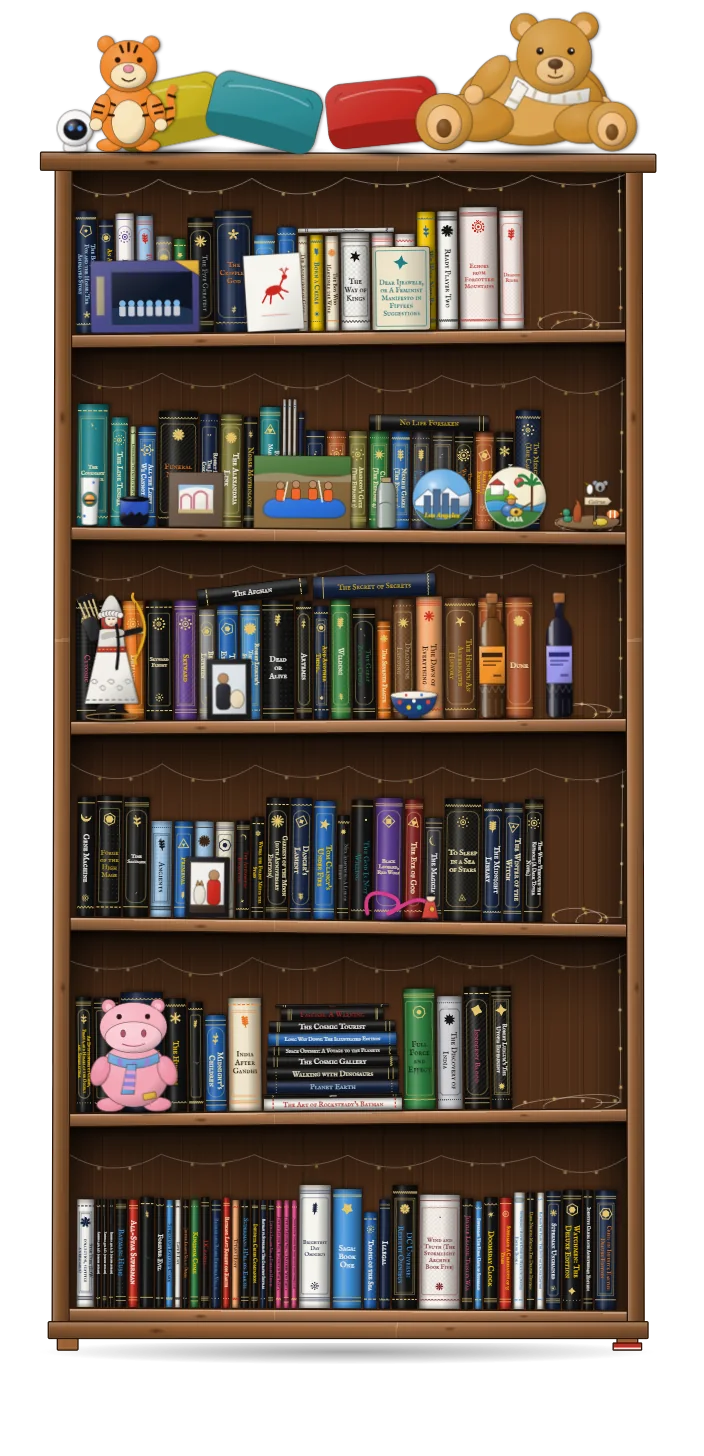
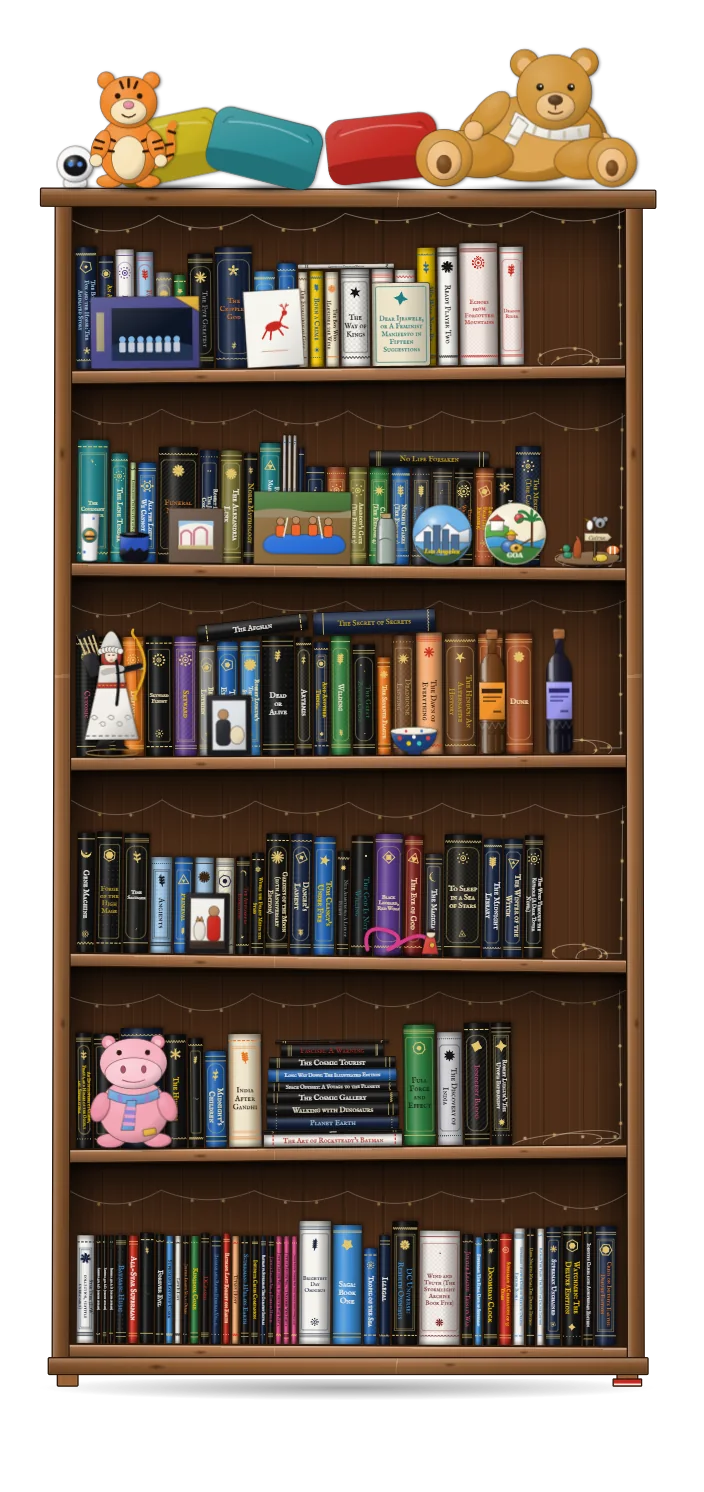
Dungeon v2.17.0
Library: remove per-book forced layout (cold open 1-2s -> ~0.25s); sparkles as the loader; picture and live bookcase grow together at identical size; no focus ring after Escape; font fetched ahead.

diff --git a/assets/js/library.js b/assets/js/library.js
@@ -7,10 +7,12 @@
   if (!root || root.dataset.ready) return;
   root.dataset.ready = '1';
   /* The page opens on pictures of the bookcases, made ahead of time by extras/shelves (npm run shelves) and already in the
-     page, so nothing is fetched or drawn to show them. Pointing at one (or touching it) fetches the data and draws that
-     bookcase out of sight, so by the time it is chosen it is ready: sparkles burst from the picture and the live bookcase
-     blooms in its place. A plain list of every book (or of one bookcase's books) lives at #books and #books-2. The same
-     code can draw the landing live (data-render="landing"): extras/shelves does that to make the pictures. */
+     page, so nothing is fetched or drawn to show them. Choosing one starts gold sparkles at once, and they keep drifting
+     up round the picture while the bookcase is fetched and drawn. When it is ready, the live bookcase is shrunk to exactly
+     the picture's size and place, and the two grow together to the open size while the picture fades into the live one: at
+     every moment they are the same size, and neither is ever bigger than the picture or the open bookcase. A plain list of
+     every book (or of one bookcase's books) lives at #books and #books-2. The same code can draw the landing live
+     (data-render="landing"): extras/shelves does that to make the pictures. */
   var TPL = root.innerHTML, landing = document.getElementById('lib-landing'), shelves = document.getElementById('lib-shelves'), DATA = null, api = null;
   var REDUCE = typeof matchMedia === 'function' && matchMedia('(prefers-reduced-motion: reduce)').matches;
   function load() {
@@ -19,45 +21,79 @@
   }
   if (root.dataset.render === 'landing') { load().then(function (d) { boot(d, true); }); return; }
   var btns = shelves ? Array.prototype.slice.call(shelves.querySelectorAll('[data-shelf]')) : [], note = document.getElementById('lib-shelves-msg');
-  var SWAP = 260, busy = false, dwell = 0, quiet = 0;
-  /* A burst of gold sparkles and a soft glow from a point on the page, in the colours of the fairy lights. Where the lengths
-     and counts can be changed: SWAP above (how long before the live bookcase takes over), the 34 here, and the durations
-     in library.css (lib-spark, lib-glow-burst, lib-bloom). */
-  function burst(x, y) {
-    if (REDUCE) return;
-    var h = document.createElement('div'), g = document.createElement('i'), COL = ['#FFD98A', '#FFC56B', '#FFE9B8', '#FFF4D6'];
+  /* Where the lengths and counts can be changed: MIN (the least time, in ms, before the bookcase takes over, so the sparkles
+     are seen), MORPH_MS (how long the grow-and-fade takes), the counts in sparkle(), and the durations in library.css
+     (lib-spark, lib-glow-burst, lib-bloom). */
+  var MIN = 180, MORPH_MS = 520, busy = false, MORPH = null;
+  var SPARK_COL = ['#FFD98A', '#FFC56B', '#FFE9B8', '#FFF4D6'];
+  /* Gold sparkles and a soft glow in the colours of the fairy lights. They start with a burst at (x, y) and, until stop() is
+     called, keep drifting up from inside box; what is already in the air then finishes by itself. */
+  function sparkle(x, y, box) {
+    if (REDUCE) return { stop: function () {} };
+    var h = document.createElement('div'), g = document.createElement('i'), over = false, tick = 0, cap = 0;
     h.className = 'lib-sparks'; h.setAttribute('aria-hidden', 'true'); g.className = 'lib-glow'; g.style.left = x + 'px'; g.style.top = y + 'px'; h.appendChild(g);
-    for (var k = 0; k < 34; k++) {
-      var a = Math.random() * Math.PI * 2, r = 80 + Math.random() * 240, s = 8 + Math.random() * 18, e = document.createElement('i');
-      e.className = 'lib-spark';
-      e.style.cssText = 'left:' + x + 'px;top:' + y + 'px;--s:' + s.toFixed(1) + 'px;--c:' + COL[k % 4] + ';--dx:' + (Math.cos(a) * r).toFixed(0) + 'px;--dy:' + (Math.sin(a) * r - 50).toFixed(0) + 'px;--r:' + (Math.random() * 180 - 90).toFixed(0) + 'deg;--d:' + (850 + Math.random() * 550).toFixed(0) + 'ms;--w:' + (Math.random() * 200).toFixed(0) + 'ms';
-      h.appendChild(e);
+    function add(n, px, py, reach) {
+      for (var k = 0; k < n; k++) {
+        var a = Math.random() * Math.PI * 2, r = (80 + Math.random() * 240) * reach, s = 8 + Math.random() * 18, e = document.createElement('i');
+        e.className = 'lib-spark';
+        e.style.cssText = 'left:' + px + 'px;top:' + py + 'px;--s:' + s.toFixed(1) + 'px;--c:' + SPARK_COL[k % 4] + ';--dx:' + (Math.cos(a) * r).toFixed(0) + 'px;--dy:' + (Math.sin(a) * r - 50 * reach).toFixed(0) + 'px;--r:' + (Math.random() * 180 - 90).toFixed(0) + 'deg;--d:' + (850 + Math.random() * 550).toFixed(0) + 'ms;--w:' + (Math.random() * 200).toFixed(0) + 'ms';
+        e.addEventListener('animationend', function () { if (this.parentNode) this.parentNode.removeChild(this); });
+        h.appendChild(e);
+      }
     }
-    document.body.appendChild(h); setTimeout(function () { if (h.parentNode) h.parentNode.removeChild(h); }, 1900);
+    function stop() { if (over) return; over = true; clearInterval(tick); clearTimeout(cap); setTimeout(function () { if (h.parentNode) h.parentNode.removeChild(h); }, 2000); }
+    add(34, x, y, 1);
+    tick = setInterval(function () { add(9, box.left + Math.random() * box.width, box.top + box.height * (0.25 + Math.random() * 0.6), 0.6); }, 260);
+    cap = setTimeout(stop, 8000);
+    document.body.appendChild(h);
+    return { stop: stop };
   }
-  /* Draw a bookcase out of sight, ready to be shown. Drawing holds the page for a moment, so it is only done for the one
-     being pointed at, never for all three. */
-  function warm(i) {
-    /* Just after coming back to the pictures, focus returns to one and must not start a draw; if the pointer is still on a
-       picture when that window ends, draw then */
-    if (Date.now() < quiet) { dwell = setTimeout(function () { warm(i); }, quiet - Date.now() + 30); return; }
-    load().then(function (d) { if (!api) api = boot(d, false); if (!busy && !LV.on) api.prepare(i); }).catch(function () {});
+  /* Back on the pictures (or the list's way out): focus goes to the page area, not to a picture, so no outline appears round
+     one; tabbing to a picture still shows it. */
+  function focusLanding() { if (!landing) return; landing.setAttribute('tabindex', '-1'); try { landing.focus({ preventScroll: true }); } catch (e) {} }
+  /* One burst and no more, from a point (a book chosen in the list) */
+  function burst(x, y) { sparkle(x, y, { left: x, top: y, width: 0, height: 0 }).stop(); }
+  /* The picture and the live bookcase, the same size and place at every moment. pic is the picture shown, P its rectangle on
+     the page, px and py the transparent margin round the artwork as a fraction of its width and height; sizer is the live
+     bookcase, already in its place. The live bookcase is shrunk to where the picture's artwork is and grown back, and a copy
+     of the picture is grown with it, from where it is to the live bookcase's rectangle. */
+  function playMorph(pic, P, px, py, sizer) {
+    if (MORPH) MORPH.cancel();
+    var Sx = P.left + P.width * px, Sy = P.top + P.height * py, Sw = P.width * (1 - 2 * px), T = sizer.getBoundingClientRect();
+    if (!T.width || !Sw) return false;
+    var k = Sw / T.width, kk = T.width / Sw, gx = T.left - P.left - kk * (Sx - P.left), gy = T.top - P.top - kk * (Sy - P.top);
+    var ghost = new Image(); ghost.alt = ''; ghost.className = 'lib-ghost'; ghost.src = pic.currentSrc || pic.src;
+    ghost.style.cssText = 'left:' + P.left + 'px;top:' + P.top + 'px;width:' + P.width + 'px;height:' + P.height + 'px';
+    document.body.appendChild(ghost);
+    sizer.style.transformOrigin = '0 0';
+    var o = { duration: MORPH_MS, easing: 'cubic-bezier(0.45, 0, 0.2, 1)', fill: 'both' };
+    var a = [
+      ghost.animate([{ transform: 'translate(0px, 0px) scale(1)', opacity: 1 }, { opacity: 1, offset: 0.35 }, { transform: 'translate(' + gx + 'px, ' + gy + 'px) scale(' + kk + ')', opacity: 0 }], o),
+      sizer.animate([{ transform: 'translate(' + (Sx - T.left) + 'px, ' + (Sy - T.top) + 'px) scale(' + k + ')' }, { transform: 'translate(0px, 0px) scale(1)' }], o),
+      root.animate([{ opacity: 0 }, { opacity: 1, offset: 0.65 }, { opacity: 1 }], o)
+    ];
+    function end() { a.forEach(function (x) { try { x.cancel(); } catch (e) {} }); if (ghost.parentNode) ghost.parentNode.removeChild(ghost); sizer.style.transformOrigin = ''; if (MORPH === m) MORPH = null; }
+    var m = MORPH = { cancel: end };
+    a[1].onfinish = end;
+    return true;
   }
   function go(i, now) {
     var b = btns[i]; if (!b || busy) return;
     busy = true; if (note) note.hidden = true;
+    var pic = null, sp = null, t0 = Date.now(), ran = false;
     if (!now) {
       b.classList.add('lib-opening');
-      if (!REDUCE) { var rc = b.getBoundingClientRect(); b.classList.add('lib-burst'); burst(rc.left + rc.width / 2, rc.top + rc.height / 2); }
+      [].forEach.call(b.querySelectorAll('.lib-shelf-img'), function (x) { if (!pic && getComputedStyle(x).display !== 'none') pic = x; });
+      var rc = (pic || b).getBoundingClientRect();
+      sp = sparkle(rc.left + rc.width / 2, rc.top + rc.height / 2, rc);
     }
-    var t0 = Date.now(), ran = false;
-    function done() { b.classList.remove('lib-opening', 'lib-burst'); busy = false; }
+    function done() { b.classList.remove('lib-opening'); busy = false; if (sp) sp.stop(); }
     function fail(e) {
       if (window.console) console.error(e);
       done();
       if (note) { note.textContent = 'The shelves could not be loaded. Tap a bookcase to try again.'; note.hidden = false; }
     }
-    /* Let the browser start the burst before any drawing begins, since drawing holds the page for a moment */
+    /* Two frames are shown before any drawing begins, so the sparkles are already moving when the page is held for the draw */
     function run() {
       if (ran) return; ran = true;
       load().then(function (d) {
@@ -66,22 +102,22 @@
         setTimeout(function () {
           try {
             btns.forEach(function (x) { x.classList.remove('lib-opened'); }); b.classList.add('lib-opened');
-            api.open(i);
+            /* measured now, while the pictures are still on the page, in case it was scrolled meanwhile */
+            api.open(i, pic && !REDUCE ? { pic: pic, rect: pic.getBoundingClientRect(), px: +b.dataset.px || 0, py: +b.dataset.py || 0 } : null);
           } catch (e) { return fail(e); }
           done();
-        }, now ? 0 : Math.max(0, SWAP - (Date.now() - t0)));
+        }, now ? 0 : Math.max(0, MIN - (Date.now() - t0)));
       }).catch(fail);
     }
-    if (now) run(); else { requestAnimationFrame(function () { setTimeout(run, 0); }); setTimeout(run, 120); }
+    if (now) run(); else { requestAnimationFrame(function () { requestAnimationFrame(function () { setTimeout(run, 0); }); }); setTimeout(run, 150); }
   }
   btns.forEach(function (b, i) {
     b.addEventListener('click', function () { go(i); });
-    /* The data is fetched as soon as a bookcase is pointed at, and the bookcase is drawn a moment later if the pointer stays */
-    b.addEventListener('pointerenter', function (e) { load().catch(function () {}); if (e.pointerType !== 'touch') dwell = setTimeout(function () { warm(i); }, 120); });
-    b.addEventListener('pointerleave', function () { clearTimeout(dwell); });
-    ['focus', 'touchstart'].forEach(function (t) { b.addEventListener(t, function () { warm(i); }, { passive: true }); });
+    /* The data and the lettering font are fetched as soon as a bookcase is pointed at or touched, so choosing one only waits for the drawing */
+    ['pointerenter', 'focus', 'touchstart'].forEach(function (t) { b.addEventListener(t, ahead, { once: true, passive: true }); });
   });
-  (window.requestIdleCallback || function (f) { setTimeout(f, 2000); })(function () { load().catch(function () {}); });
+  function ahead() { load().catch(function () {}); try { if (document.fonts && document.fonts.load) document.fonts.load("12px 'IM Fell English SC'"); } catch (e) {} }
+  (window.requestIdleCallback || function (f) { setTimeout(f, 2000); })(ahead);
 
   /* The list of books: one plain row each, drawn a screenful at a time. #books lists every book, #books-2 only Shelf 2's.
      Choosing a row opens that book's bookcase with the book selected. */
@@ -164,7 +200,7 @@
     try { history.replaceState(null, '', location.pathname + location.search); } catch (e) {}
     if (from >= 0) { openAt(from, null, null, false); return; }
     if (landing) landing.hidden = false;
-    var a = $('lib-allbooks'); if (a) { quiet = Date.now() + 600; a.focus({ preventScroll: true }); }
+    focusLanding();
   }
   function reshow() { LV.live = false; api.hide(); if (landing) landing.hidden = true; listEl.hidden = false; LV.on = true; window.scrollTo(0, LV.y || 0); }
   function openAt(ci, gi, ev, fromList) {
@@ -212,29 +248,32 @@
   function boot(d, render){
     const books=d.books||d,cases=d.cases&&d.cases.length?d.cases:[{name:'Shelf 1',n:6},{name:'Shelf 2',n:6}],curios=d.curios||[],CS=[];
     {let a=0;cases.forEach(c=>{CS.push(a);a+=c.n})}
-    let AC=null,STD=shelves&&+shelves.dataset.std||0;
+    let AC=null,STD=shelves&&+shelves.dataset.std||0,FIXW0=shelves&&+shelves.dataset.fixw||0;
     function fresh(over){if(AC)AC.abort();AC=new AbortController();document.documentElement.classList.remove('lib-zoomed');root.innerHTML=TPL;root.classList.toggle('lib-over',over);root.hidden=false}
     let warmed=-1;
     function clear(){if(AC)AC.abort();AC=null;warmed=-1;root.innerHTML='';root.hidden=true;root.classList.remove('lib-warm','lib-fadein','lib-bloom');root.style.width=root.style.left='';document.documentElement.classList.remove('lib-zoomed')}
     function overview(){
       /* Back to the pictures: the live bookcase is thrown away, so this is instant */
-      if(!render){clear();if(landing)landing.hidden=false;const b=shelves&&shelves.querySelector('.lib-opened');if(b){quiet=Date.now()+600;b.focus({preventScroll:true})}return}
-      fresh(true);start(books,d.covers,curios,cases,{landing:true,signal:AC.signal,pick:()=>{},std:w=>{STD=w;window.__libStd=w},ready:()=>{window.__libReady=true}})}
+      if(!render){clear();if(landing)landing.hidden=false;focusLanding();return}
+      fresh(true);start(books,d.covers,curios,cases,{landing:true,signal:AC.signal,pick:()=>{},std:w=>{STD=w;window.__libStd=w},fixw:w=>{window.__libFixW=w},ready:()=>{window.__libReady=true}})}
     function draw(ci,sel,opt){const c=cases[ci];
       const bs=books.map((b,gi)=>Object.assign({},b,{_g:gi})).filter(b=>b.s>=CS[ci]&&b.s<CS[ci]+c.n).map(b=>Object.assign(b,{s:b.s-CS[ci]})),
         cu=curios.filter(q=>q.s===-1-ci||(q.s>=CS[ci]&&q.s<CS[ci]+c.n)).map(q=>Object.assign({},q,{s:q.s<0?-1:q.s-CS[ci]}));
-      start(bs,d.covers,cu,[c],{ci,stdW:STD,signal:AC.signal,close:opt&&opt.back||overview,backLabel:opt&&opt.label,sel,list:()=>listFromShelf(ci)})}
+      start(bs,d.covers,cu,[c],{ci,stdW:STD,fixW:FIXW0,signal:AC.signal,close:opt&&opt.back||overview,backLabel:opt&&opt.label,sel,list:()=>listFromShelf(ci)})}
     /* Draw a bookcase out of sight, at the size it will have when shown: the page's column, not in the page's flow */
     function prepare(ci,sel,opt){if(warmed===ci&&sel==null&&!opt)return;if(warmed>=0||AC)clear();
       const p=root.parentNode,cs=getComputedStyle(p),r=p.getBoundingClientRect();
       root.classList.add('lib-warm');root.style.width=(p.clientWidth-parseFloat(cs.paddingLeft)-parseFloat(cs.paddingRight))+'px';root.style.left=(r.left+parseFloat(cs.paddingLeft)+p.clientLeft)+'px';
       fresh(false);draw(ci,sel,opt);warmed=ci}
-    function openShelf(ci){
+    function openShelf(ci,mo){
       if(warmed!==ci)prepare(ci);
-      /* Bring the drawn bookcase into the page, in place of the pictures: it blooms outward from its middle */
+      /* Bring the drawn bookcase into the page, in place of the pictures: grown from the picture's own size and place when a
+         picture was chosen, otherwise blooming outward from its middle */
       warmed=-1;root.classList.remove('lib-warm');root.style.width=root.style.left='';if(landing)landing.hidden=true;
-      const k=REDUCE?'lib-fadein':'lib-bloom';root.classList.add(k);setTimeout(()=>root.classList.remove(k),620);
-      if(root.scrollIntoView&&root.getBoundingClientRect().top<0)root.scrollIntoView({block:'start'})}
+      if(root.scrollIntoView&&root.getBoundingClientRect().top<0)root.scrollIntoView({block:'start'});
+      const sz=root.querySelector('#lib-sizer');
+      if(mo&&sz&&root.animate&&playMorph(mo.pic,mo.rect,mo.px,mo.py,sz))return;
+      const k=REDUCE?'lib-fadein':'lib-bloom';root.classList.add(k);setTimeout(()=>root.classList.remove(k),620)}
     if(render)overview();
     return{open:openShelf,prepare,home:overview,hide:clear}}
   function start(DATA, COVERS, CURIOS, CASES0, CTX) {
@@ -622,7 +661,7 @@
       caseEl.classList.toggle('lb-manual',mode==='manual');document.getElementById('lib-tools').hidden=mode!=='manual';if(mode==='manual')shareLinks();
       caseEl.querySelectorAll('.lb-fr').forEach(p=>p.remove());
       const tk=!!m.real&&tucked,hasL=c=>!!CASES[c].layers;
-      const L=r.sh.map(s=>layoutShelf(s,!!m.real,tk));if(m.real)FIXW=Math.max(420,...L.filter((l,q)=>!hasL(caseOf(q))).map(l=>l.width));
+      const L=r.sh.map(s=>layoutShelf(s,!!m.real,tk));if(m.real){FIXW=Math.max(420,CTX.fixW||0,...L.filter((l,q)=>!hasL(caseOf(q))).map(l=>l.width));if(CTX.fixw)CTX.fixw(FIXW)}
       geos=[];G={};sortSel.value=m.pat||m.own?'':mode;patSel.value=m.pat?mode:'';menus.forEach(x=>x.update());
       for(let c=0;c<CASES.length;c++){const n=CASES[c].n,st=!!CASES[c].straight,bx=boxes[c],LM=24,cx=LM,ty=STUFF,bot=ty+TB+n*ROW-30,D=DEPTH,
           colW=Math.max(m.real&&hasL(c)?420:FIXW,...L.slice(CS[c],CS[c]+n).map(l=>l.width)),CW=colW+2*SIDE,BW=LM+CW+40;
@@ -635,7 +674,7 @@
         for(let rw=0;rw<n;rw++){const si=CS[c]+rw,th=TILT[si]*RAD,ox=cx+SIDE,by=ty+TB+rw*ROW+SH+JIT[si]-(colW/2)*Math.sin(th),geo={ox,by,th,colW,c},
             off=m.centre?(colW-L[si].width)/2:0;geos[si]=geo;G[si]={ox,by,th,colW,front:0,c};
           L[si].place.forEach(([e,x,y,ang,drag],i)=>{e.geo=geo;e.drag=!!drag;e.lx=x+off;e.ly2=0;e.ly_=y+e.dh-FD;e.ang=ang||0;
-            const pln=tk&&e.ly?bx['_books'+e.ly]:bx._books;if(e.el.parentNode!==pln){pln.appendChild(e.el);void e.el.offsetWidth}
+            const pln=tk&&e.ly?bx['_books'+e.ly]:bx._books;if(e.el.parentNode!==pln){pln.appendChild(e.el)}
             if(drag){e.lim=[PAD,colW-e.dw-PAD];e.lx=Math.max(e.lim[0],Math.min(e.lim[1],e.lx+(dxs[e.i]||0)))}
             e.el.style.zIndex=drag?400:10+i;put(e)});
           fairy(si,ox,by,colW,off+PAD,off+L[si].width-PAD);
@@ -797,6 +836,9 @@
     if(CTX.sel!=null){const e=books.find(b=>b._g===CTX.sel);if(e)select(e)}
     if(location.hash.indexOf('#'+PFX+'.')===0){const sh=dec(location.hash.slice(1));if(sh){manual=normalise(sh);render('manual')}else msg.textContent='That link does not match the books on the shelves now, so the shelves are shown as they really are.'}
     const done=()=>{if(CTX.ready)setTimeout(CTX.ready,50)};
-    if(document.fonts&&document.fonts.load)document.fonts.load("12px 'IM Fell English SC'").then(()=>{books.forEach(b=>b.f=null);render(current)}).catch(()=>{}).then(done);else done();
+    /* The lettering is measured with its own font. If that font is already loaded (it is fetched ahead of time) the first draw is
+       right; otherwise draw again once it arrives. */
+    const fontReady=!!(document.fonts&&document.fonts.check&&document.fonts.check("12px 'IM Fell English SC'"));
+    if(!fontReady&&document.fonts&&document.fonts.load)document.fonts.load("12px 'IM Fell English SC'").then(()=>{books.forEach(b=>b.f=null);render(current)}).catch(()=>{}).then(done);else done();
   }
 })();

diff --git a/assets/css/library.css b/assets/css/library.css
@@ -34,12 +34,10 @@ html[data-scheme="dark"] .lib-shelf-dark { display: block; }
     html[data-scheme="auto"] .lib-shelf-dark { display: block; }
 }
 .lib-shelf-cap { position: absolute; display: flex; align-items: center; justify-content: center; font-family: var(--mono); font-size: var(--cap); color: var(--graphite); white-space: nowrap; pointer-events: none; }
-.lib-shelf-wait { position: absolute; inset: 0; display: none; align-items: center; justify-content: center; font-family: var(--mono); font-size: 0.9rem; color: var(--ink); pointer-events: none; }
-/* Chosen: see the burst below. The ring only appears if the bookcase is slow to come. */
+/* Chosen: sparkles start at once and keep drifting while the bookcase loads; the picture and the live bookcase then grow together
+   (library.js, playMorph). */
 .lib-shelf.lib-opening { cursor: progress; }
 
-.lib-shelf.lib-opening .lib-shelf-wait { display: flex; opacity: 0; animation: lib-wait-in 0.2s 0.6s forwards; }
-@keyframes lib-wait-in { to { opacity: 1; } }
 /* The live bookcase is drawn out of sight while one is pointed at: in the page's column, so it measures as it will be shown */
 .lib.lib-warm { position: fixed; top: 0; visibility: hidden; pointer-events: none; }
 .lib.lib-fadein { animation: lib-fade 0.28s ease-out; }
@@ -53,7 +51,6 @@ html[data-scheme="dark"] .lib-shelf-dark { display: block; }
 @media (prefers-reduced-motion: reduce) {
     .lib-shelf { transition: none; }
         .lib.lib-bloom { animation: none; }
-    .lib-spin { animation-duration: 2s; }
 }
 /* Nothing on the shelves can be text-selected, so a long press on a phone picks a thing up instead of opening the copy menu */
 /* The shelves use the whole width of the page and nothing crops them: a zoomed case grows across and down the page */
@@ -254,19 +251,18 @@ html.lib-zoomed .lb-glow0, html.lib-zoomed .lb-glow1, html.lib-zoomed .lb-glow2 
 .lib-allbooks a:hover, .lib-allbooks a:focus-visible { color: var(--ink); text-decoration-color: currentColor; outline: none; }
 @media (max-width: 899px) { .lib-allbooks { margin-top: 0.5rem; } }
 
-/* Chosen: sparkles burst from the picture (made by library.js), the picture dissolves, and the live bookcase blooms outward
-   from its middle. A small ring turns on the picture only if the bookcase is slow to come. */
+/* Sparkles (made by library.js): a burst when a bookcase is chosen, more drifting up while it loads. A book chosen in the list
+   gets one burst and the live bookcase blooms outward from its middle. */
 .lib-sparks { position: fixed; inset: 0; z-index: 70; overflow: hidden; pointer-events: none; }
 .lib-spark { position: absolute; width: var(--s); height: var(--s); margin: calc(var(--s) / -2) 0 0 calc(var(--s) / -2); background: var(--c); opacity: 0; clip-path: polygon(50% 0, 62% 38%, 100% 50%, 62% 62%, 50% 100%, 38% 62%, 0 50%, 38% 38%); animation: lib-spark var(--d) cubic-bezier(0.15, 0.7, 0.3, 1) var(--w) forwards; }
 @keyframes lib-spark { 0% { opacity: 0; transform: translate(0, 0) scale(0.2) rotate(0deg); } 12% { opacity: 1; } 55% { opacity: 0.85; } 100% { opacity: 0; transform: translate(var(--dx), var(--dy)) scale(1) rotate(var(--r)); } }
 .lib-glow { position: absolute; width: 360px; height: 360px; margin: -180px 0 0 -180px; border-radius: 50%; background: radial-gradient(circle, rgba(255, 217, 138, 0.55), rgba(255, 197, 107, 0.18) 45%, transparent 70%); opacity: 0; animation: lib-glow-burst 0.7s ease-out forwards; }
 @keyframes lib-glow-burst { 0% { opacity: 0; transform: scale(0.2); } 25% { opacity: 1; } 100% { opacity: 0; transform: scale(1.5); } }
-.lib-shelf.lib-burst .lib-shelf-img { animation: lib-dissolve 0.32s ease-in forwards; }
-@keyframes lib-dissolve { to { opacity: 0.35; transform: scale(1.03); filter: brightness(1.3); } }
+/* The copy of the picture that grows into the live bookcase */
+.lib-ghost { position: fixed; z-index: 65; max-width: none; margin: 0; transform-origin: 0 0; pointer-events: none; will-change: transform, opacity; }
+.lib-landing:focus { outline: none; }
 .lib.lib-bloom { transform-origin: 50% 40%; animation: lib-bloom 0.5s cubic-bezier(0.2, 0.8, 0.2, 1); }
 @keyframes lib-bloom { from { opacity: 0; transform: scale(0.9); } to { opacity: 1; transform: none; } }
-.lib-spin { display: block; width: 28px; height: 28px; border: 3px solid color-mix(in srgb, var(--ink) 25%, transparent); border-top-color: var(--ink); border-radius: 50%; animation: lib-spin 0.8s linear infinite; }
-@keyframes lib-spin { to { transform: rotate(360deg); } }
 
 /* The list of books */
 .lib-books { padding: 0.5rem 0 4rem; }

diff --git a/extras/shelves/harness.html b/extras/shelves/harness.html
@@ -11,7 +11,7 @@
 <style>
     html, body { margin: 0; background: transparent !important; }
     body { font-family: sans-serif; }
-    .lib { width: 1000px; margin: 0 auto; padding: 0; }
+    .lib { width: 1000px; margin: 0 auto; padding: 40px 0 0; } /* room above the bookcases, so the pictures keep their whole margin at the top */
     .lb-glow0, .lb-glow1, .lb-glow2 { animation: none !important; opacity: 0.55; }
     .lb-flame { animation: none !important; }
     .lb-cap { visibility: hidden; }

diff --git a/CHANGELOG.md b/CHANGELOG.md
@@ -1,5 +1,16 @@
 # Changelog
 
+## 2.17.0
+
+Library only.
+
+- **Choosing a bookcase no longer freezes the page.** Every book put on the shelf made the browser re-measure the whole page, a leftover from the old fly-in. A cold click used to hold the page for one to two seconds (2.1 s on Shelf 3); it now takes about a quarter of a second, most of that the sparkles being seen. The drawing itself takes under a tenth of a second, so the pre-drawing on hover is gone.
+- **The picture becomes the bookcase.** Sparkles start the moment you click and keep drifting up round the picture while the bookcase loads; the ones already in the air finish over it. When it is ready, the live bookcase is drawn exactly the picture's size and place, and the two grow together to the open size, the picture fading into the live one. At every moment they are the same size, and neither is ever bigger than the picture or the open bookcase. It takes about half a second. The little ring and the dissolve are gone; with reduced motion there is only a fade.
+- **No box round a bookcase after Escape.** Going back put the keyboard focus ring on the picture you had opened. Focus now returns to the page area; tabbing to a picture still shows the ring.
+- **An opened bookcase is as wide as its picture,** so the picture and the live bookcase match. (Shelf 1 was about 2% narrower than its picture.)
+- **The lettering font is fetched ahead of time,** so the first bookcase you open is not drawn twice.
+- **The pictures keep their whole margin** at the top (they lost a strip of it), and each records its margin so the live bookcase can start exactly where the artwork is. Run `npm run shelves` to make them again.
+
 ## 2.16.2
 
 Garden only.
